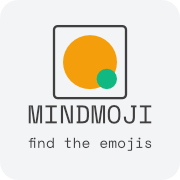
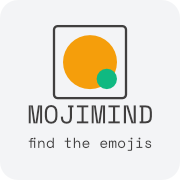
brand updates

Changed region(s): [[0.5833, 0.5833, 0.8611, 0.6944], [0.2222, 0.5833, 0.5, 0.6944]]

diff --git a/index.html b/index.html
@@ -13,15 +13,15 @@
     <!-- Open Graph / Social Media -->
     <meta property="og:type" content="website">
     <meta property="og:url" content="https://mojimind.com/">
-    <meta property="og:title" content="Mojimind - Daily Emoji Challenge">
-    <meta property="og:description" content="Mojimind - find the emojis.">
+    <meta property="og:title" content="Mojimind - Find the emojis">
+    <meta property="og:description" content="Daily Emoji Mastermind Challenge">
     <meta property="og:image" content="https://mojimind.com/og-image.png">
     
     <!-- Twitter -->
     <meta name="twitter:card" content="summary_large_image">
-    <meta name="twitter:url" content="https://mindmoji.com/">
-    <meta name="twitter:title" content="Mojimind - Daily Emoji Challenge">
-    <meta name="twitter:description" content="Mojimind - find the emojis.">
+    <meta name="twitter:url" content="https://mojimind.com/">
+    <meta name="twitter:title" content="Mojimind - Find the emojis">
+    <meta name="twitter:description" content="Daily Emoji Mastermind Challenge.">
     <meta name="twitter:image" content="https://mojimind.com/og-image.png">
     
     <!-- Favicon -->
@@ -32,7 +32,7 @@
     <link rel="manifest" href="manifest.json">
     <meta name="theme-color" content="#4F46E5">
     
-    <title>Mindmoji - Daily Emoji Mastermind Challenge</title>
+    <title>Mojimind - Daily Emoji Mastermind Challenge</title>
     
     <!-- Fonts -->
     <link rel="preconnect" href="https://fonts.googleapis.com">
@@ -45,7 +45,7 @@
 <body class="ios-height-fix">
     <div class="game-container">
         <div class="game-header">
-            <h1>Mindmoji</h1>
+            <h1>MOJIMIND</h1>
             <div class="guesses-counter" id="guesses-counter">0/20</div>
         </div>
         
@@ -72,7 +72,7 @@
         </div>
         
         <div class="footer">
-            <p>built with 💜 | <a href="mailto:hello@mindmoji.com">contact</a> | <a href="#" id="how-to-play">how to play</a></p>
+            <p>built with 💜 | <a href="mailto:hello@mojimind.com">contact</a> | <a href="#" id="how-to-play">how to play</a></p>
         </div>
     </div>
 

diff --git a/app.js b/app.js
@@ -504,14 +504,14 @@ document.addEventListener('DOMContentLoaded', function() {
       // Create result message
       let resultMessage = '';
       if (isWon) {
-          resultMessage = `You solved today's Mojimind in ${guessHistory.length} guesses! ${performanceEmoji}`;
+          resultMessage = `You solved today's mojimind in ${guessHistory.length} guesses! ${performanceEmoji}`;
       } else {
           resultMessage = `Better luck next time! The code was: ${secretCode.join(' ')}`;
       }
       
       // Create text for share message
       const formattedDate = getFormattedDate();
-      const shareText = `Mojimind ${formattedDate} - ${isWon ? `Solved in ${guessHistory.length}/20 guesses! ${performanceEmoji}` : 'Try again tomorrow!'}\nhttps://mojimind.com`;
+      const shareText = `mojimind: ${formattedDate}\n\n ${isWon ? `I solved in ${guessHistory.length}/20 guesses, can you do better?` : 'Try again tomorrow!'}\nhttps://mojimind.com`;
       
       // Configure message text
       const messageText = document.createElement('p');
